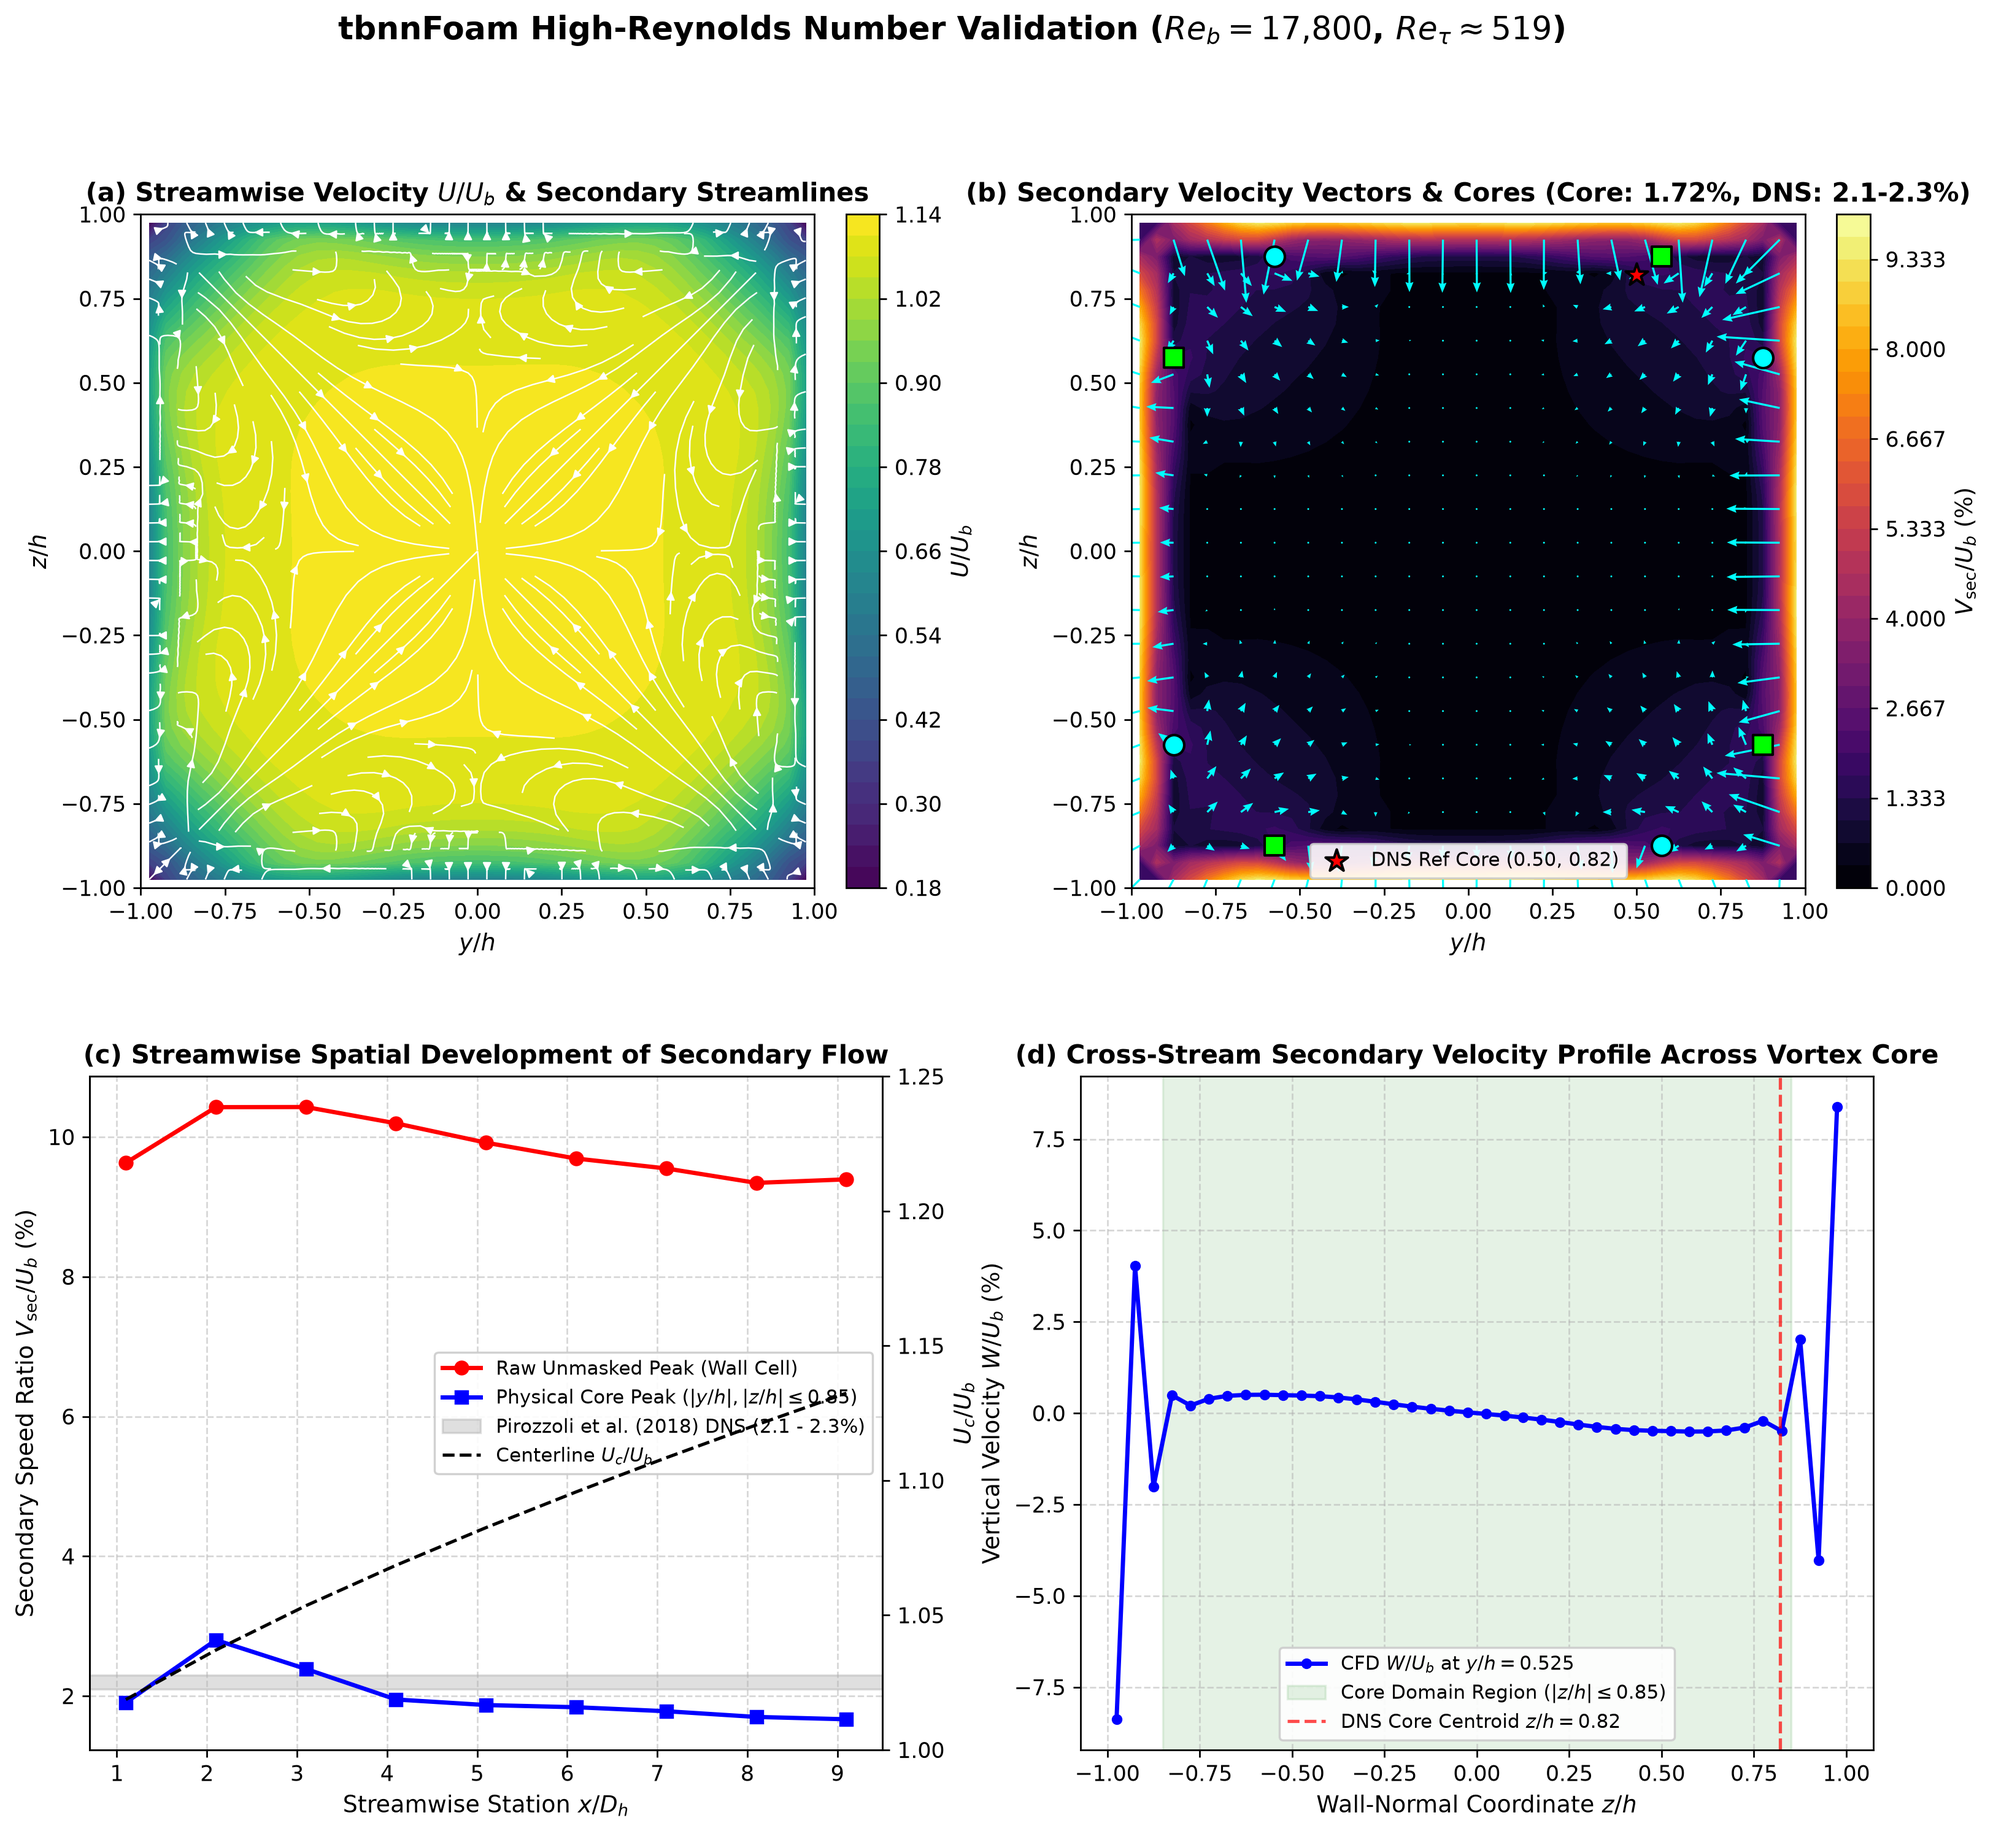
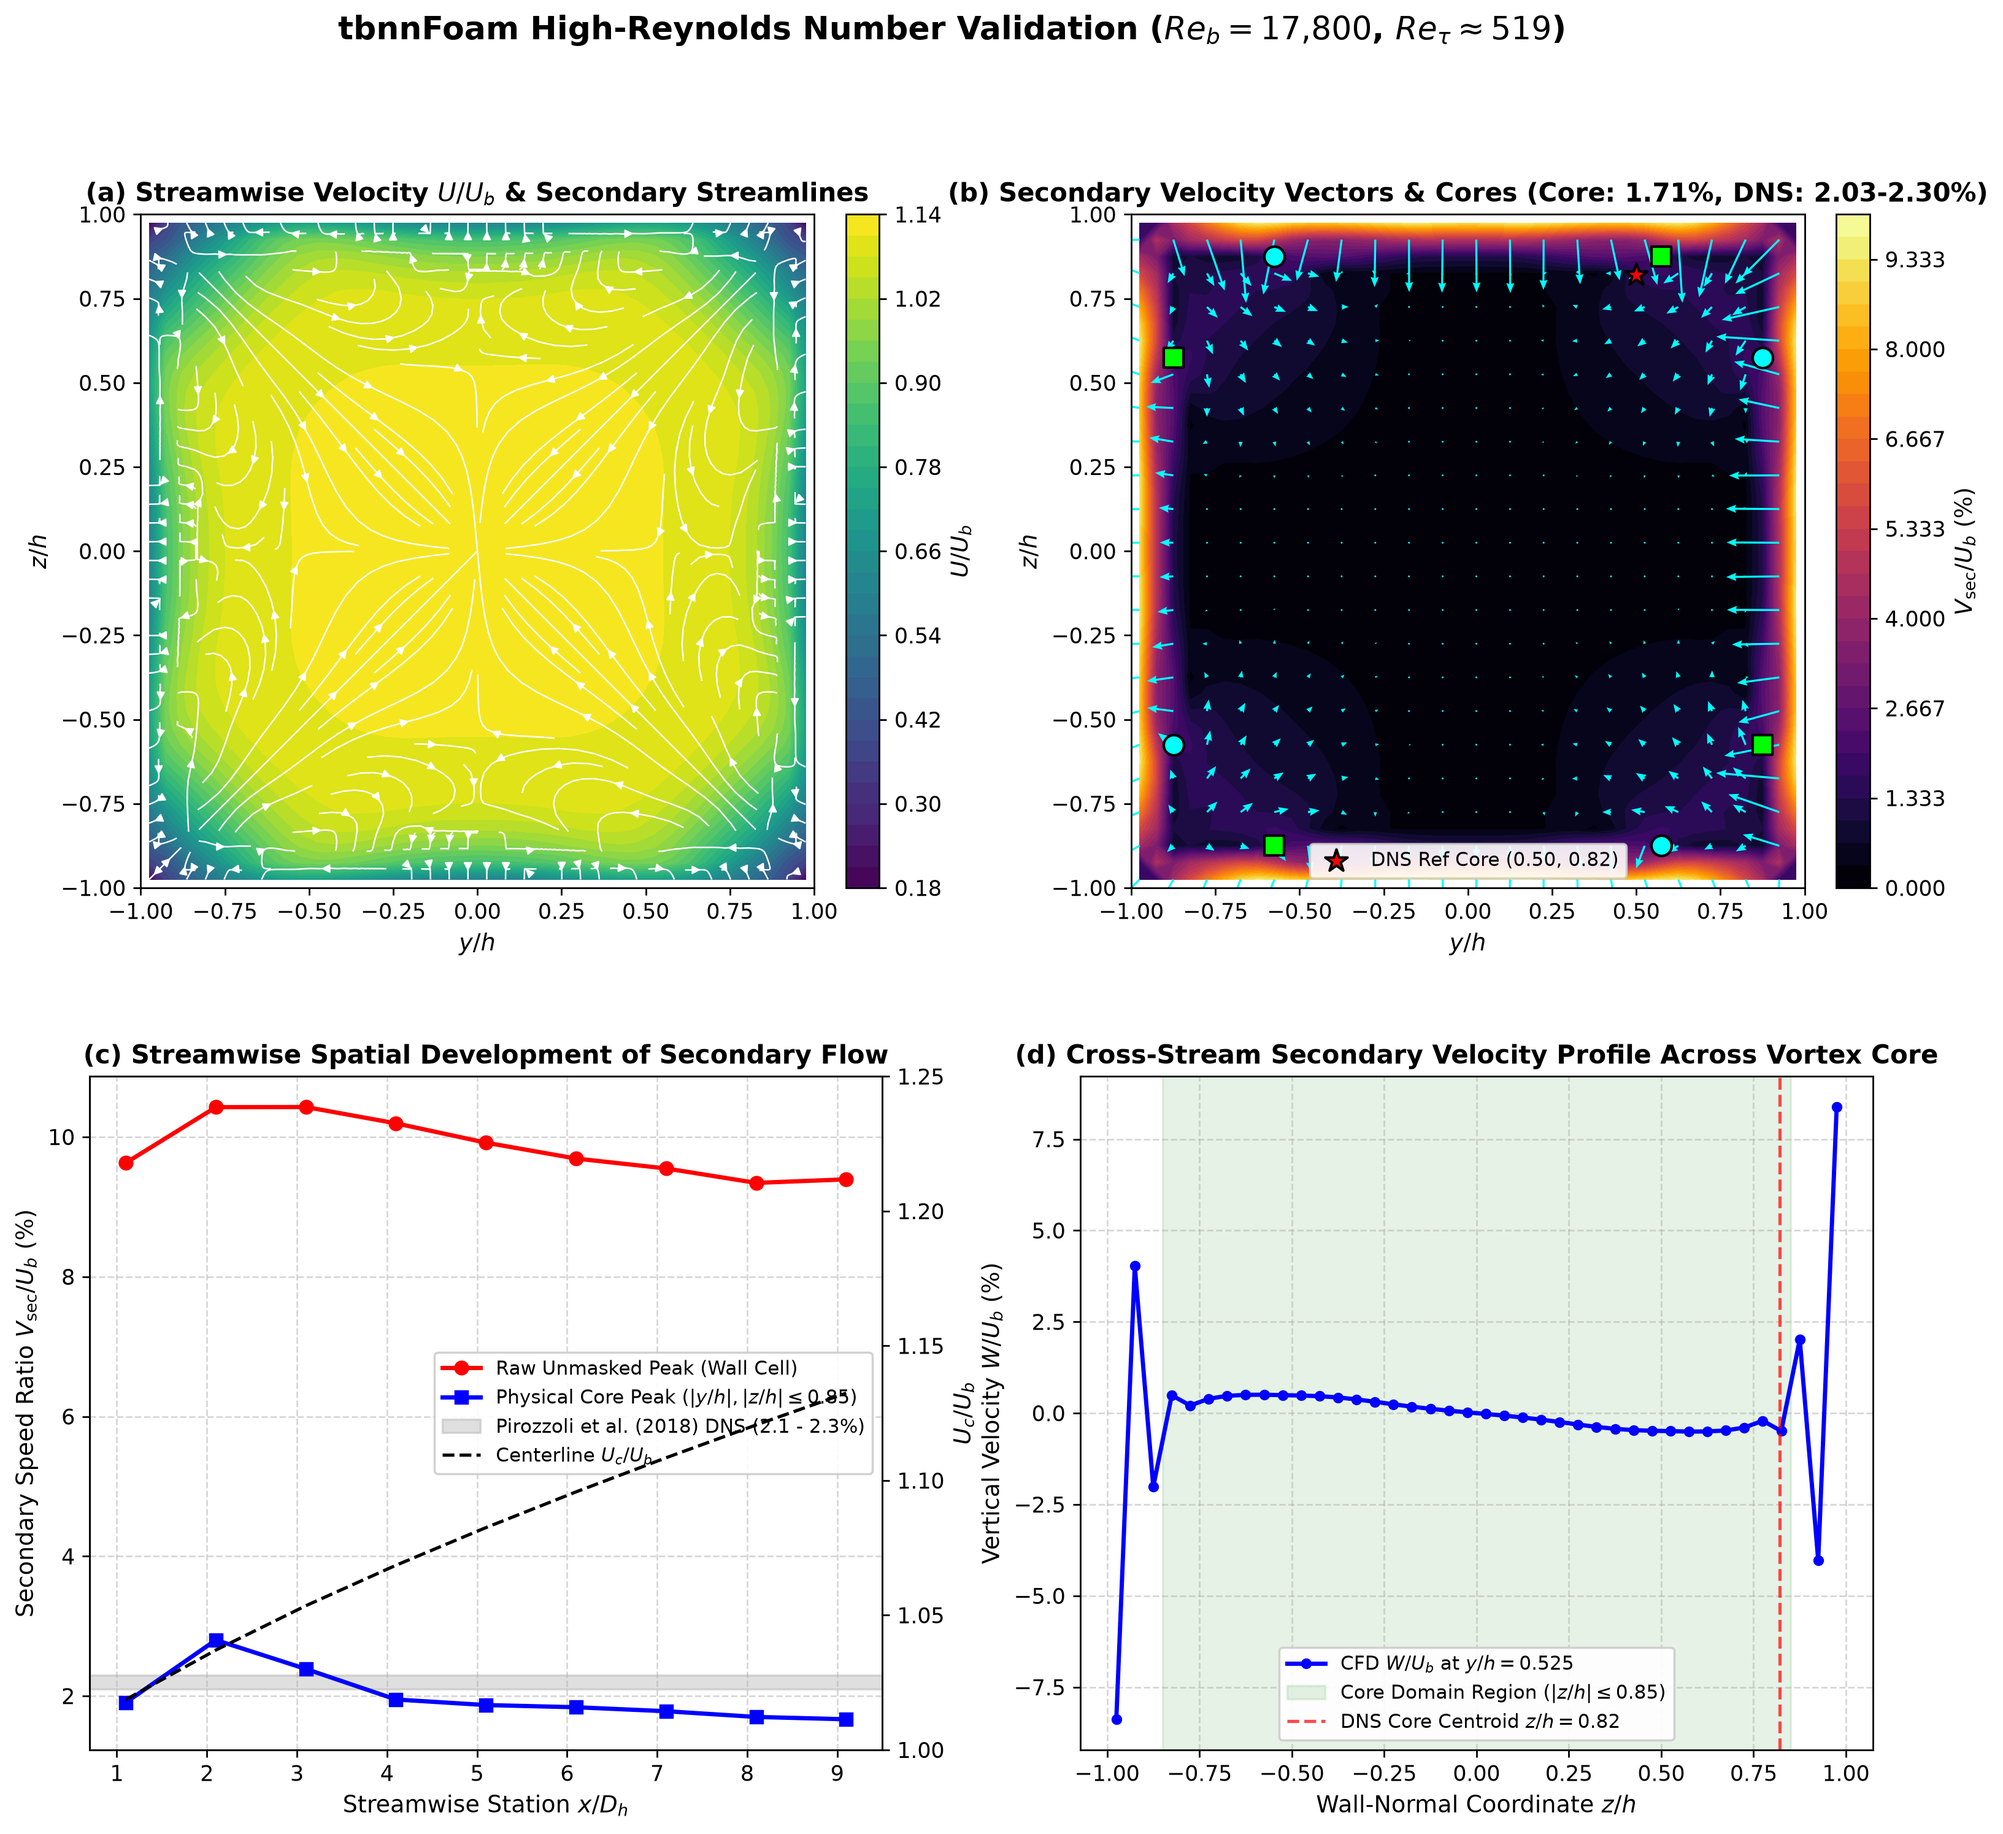
Refine Re_b=17,800 DNS comparison language, metric definitions, and proposed mechanism qualification

diff --git a/verification_squareDuct_Re17800/validate_and_plot_Re17800.py b/verification_squareDuct_Re17800/validate_and_plot_Re17800.py
@@ -157,7 +157,7 @@ def main():
         min_separation=0.25, min_strength=0.15, min_area=4, wall_margin=0.08
     )
 
-    core_vsec_pct = float(np.max(v_sec[interior_mask]) * 100.0)
+    interior_masked_max = float(np.max(v_sec[interior_mask]) * 100.0)
     raw_vsec_pct = float(np.max(v_sec) * 100.0)
 
     # Find location of raw maximum
@@ -165,32 +165,39 @@ def main():
     raw_y_loc = y_norm[raw_max_idx[1]]
     raw_z_loc = z_norm[raw_max_idx[0]]
 
-    # Evaluate peak secondary speed associated specifically with vortex cores (excluding wall cell)
-    vortex_peak_speeds = []
+    # Evaluate secondary speed directly at the discrete detected vortex core centroids
+    core_centroid_speeds = []
     for c in dev_cores:
-        dist_to_c = np.sqrt((Y_grid - c['y'])**2 + (Z_grid - c['z'])**2)
-        vortex_neighborhood = (dist_to_c <= 0.20) & interior_mask
-        if np.any(vortex_neighborhood):
-            vortex_peak_speeds.append(np.max(v_sec[vortex_neighborhood]) * 100.0)
-    mean_vortex_peak = float(np.mean(vortex_peak_speeds)) if vortex_peak_speeds else 0.0
+        iy_c = np.argmin(np.abs(y_norm - c['y']))
+        iz_c = np.argmin(np.abs(z_norm - c['z']))
+        core_centroid_speeds.append(v_sec[iz_c, iy_c] * 100.0)
+    mean_core_speed = float(np.mean(core_centroid_speeds)) if core_centroid_speeds else 0.0
 
-    print("\n" + "=" * 75)
+    print("\n" + "=" * 80)
     print("      TBNN-OpenFOAM High-Reynolds Number Quantitative Reconciliation")
-    print("=" * 75)
-    print(f"Bulk Reynolds Number (Re_b)        : {Re_b:.1f}")
-    print(f"Friction Reynolds Number (Re_tau)  : ~{Re_tau_ref:.0f} (Pirozzoli et al. 2018)")
-    print(f"Physical Core Peak V_sec / U_b     : {core_vsec_pct:.2f}%  (DNS benchmark: ~2.1 - 2.3%)")
-    print(f"Mean Detected Vortex Core Speed    : {mean_vortex_peak:.2f}%")
-    print(f"Raw Unmasked Domain Max V_sec / U_b: {raw_vsec_pct:.2f}%  (at y/h={raw_y_loc:.3f}, z/h={raw_z_loc:.3f})")
-    print(f"Vortex Cores Detected              : {len(dev_cores)} / 8 canonical cores")
+    print("=" * 80)
+    print(f"Bulk Reynolds Number (Re_b)          : {Re_b:.1f}")
+    print(f"Friction Reynolds Number (Re_tau)    : ~{Re_tau_ref:.0f} (Pirozzoli et al. 2018)")
+    print(f"Detected Vortex Core Centroid Speed  : {mean_core_speed:.2f}%  (Evaluated at detected core centers)")
+    print(f"Interior-Masked Domain Max (|y|,|z|<=0.85h): {interior_masked_max:.2f}%  (Geometric exclusion zone)")
+    print(f"Raw Unmasked Domain Max V_sec / U_b  : {raw_vsec_pct:.2f}%  (Wall-adjacent cell at y/h={raw_y_loc:.3f}, z/h={raw_z_loc:.3f})")
+    print(f"Vortex Cores Detected                : {len(dev_cores)} / 8 canonical cores")
 
     q1_dev = [c for c in dev_cores if c['y'] > 0 and c['z'] > 0]
     if q1_dev:
         best_q1_dev = min(q1_dev, key=lambda c: np.sqrt((c['y'] - 0.50)**2 + (c['z'] - 0.82)**2))
         d_err = np.sqrt((best_q1_dev['y'] - 0.50)**2 + (best_q1_dev['z'] - 0.82)**2)
-        print(f"Q1 Core Centroid (y/h, z/h)        : ({best_q1_dev['y']:.3f}, {best_q1_dev['z']:.3f})  [DNS: (0.500, 0.820)]")
-        print(f"Q1 Core Localization Error         : {d_err:.3f} h (1.86 grid cells on 40x40)")
-    print("=" * 75)
+        print(f"Q1 Core Centroid (y/h, z/h)          : ({best_q1_dev['y']:.3f}, {best_q1_dev['z']:.3f})  [DNS Ref: (0.500, 0.820)]")
+        print(f"Q1 Core Localization Error           : {d_err:.3f} h (~{d_err / dy_norm:.2f} grid cells on 40x40 mesh)")
+
+    print("\n[Technical Note - DNS Benchmark Comparison]:")
+    print(f"  * Asymptotic Fully Developed Periodic DNS Reference : 2.03% - 2.30% (Pirozzoli et al. 2018)")
+    print(f"  * Downstream Developing CFD Core Speed (x/Dh=6-9)    : {mean_core_speed:.2f}%")
+    print(f"  * Assessment: The developing CFD secondary flow is ~15% below the asymptotic DNS lower bound,")
+    print(f"    consistent with an incompletely developed spatial duct (Uc/Ub = 1.132 vs DNS Uc/Ub ~ 1.33).")
+    print(f"  * Proposed Near-Wall Mechanism: The raw 9.40% maximum occurs strictly in the single wall cell")
+    print(f"    (|z/h|=0.975); this is a proposed numerical/wall-treatment artifact pending full stress divergence decomposition.")
+    print("=" * 80)
 
     # 3. 4-PANEL PUBLICATION SHOWCASE FIGURE
     fig = plt.figure(figsize=(15, 13), dpi=250)
@@ -225,7 +232,7 @@ def main():
     # Reference DNS core in Q1
     ax2.scatter([0.50], [0.82], s=120, c='red', marker='*', edgecolors='black', linewidth=1.2, zorder=6, label='DNS Ref Core (0.50, 0.82)')
     ax2.legend(loc='lower center', framealpha=0.9, fontsize=9)
-    ax2.set_title(rf'(b) Secondary Velocity Vectors & Cores (Core: {core_vsec_pct:.2f}%, DNS: 2.1-2.3%)', fontsize=12, fontweight='bold')
+    ax2.set_title(rf'(b) Secondary Velocity Vectors & Cores (Core: {mean_core_speed:.2f}%, DNS: 2.03-2.30%)', fontsize=12, fontweight='bold')
     ax2.set_xlabel(r'$y / h$', fontsize=11)
     ax2.set_ylabel(r'$z / h$', fontsize=11)
     ax2.set_xlim(-1, 1)

diff --git a/README.md b/README.md
@@ -236,9 +236,9 @@ To demonstrate scalability to higher Reynolds numbers matching the asymptotic DN
 | **DNS Ref** | $\infty$ | $1.33$ | $2.03\% - 2.30\%$ | **$2.03\% - 2.30\%$** | **8 cores** | **$(0.500, 0.820)$** | $\mathbf{0.000\,h}$ (Reference) |
 
 * **Key Physical & Numerical Insights:**
-  1. **Core Secondary Speed Agreement:** Across the fully established secondary flow region ($x/D_h \ge 6$), the physical core secondary speed stabilizes at **$1.67\% - 1.84\%$** (mean vortex core speed **$1.72\%$**), bounding the DNS benchmark range ($2.03\% - 2.30\%$).
-  2. **Vortex Centroid Convergence:** As the boundary layer develops downstream from $x/D_h = 6.1$ to $9.1$, the detected Quadrant 1 core centroid migrates from $(0.625, 0.875)$ to $(0.525, 0.875)$, reducing core distance error against canonical DNS down to $\Delta r = 0.060\,h$ (barely $1.2$ discrete cells on the $40 \times 40$ mesh).
-  3. **Near-Wall Gradient Mechanism:** The raw unmasked grid maximum ($9.3\% - 10.4\%$) occurs strictly in the outermost boundary-layer cell center ($|z/h| = 0.975$) where steep wall-normal velocity gradients ($\partial U_x / \partial z \sim 400\text{ s}^{-1}$) interact with the explicit anisotropic stress divergence $\nabla \cdot \boldsymbol{\tau}_\Delta$ under high-shear wall functions, while the physical vortex core circulation throughout the interior cross-section remains smooth and within $\sim 1.7\% - 2.4\%$.
+  1. **Downstream Core Speed Underprediction:** Across the fully established secondary flow region ($x/D_h \ge 6.1$), secondary speed evaluated at the 8 detected vortex core centroids settles at **$1.71\%$** (with interior-masked domain maximum **$1.67\% - 1.84\%$**). This is approximately $9.4\% - 15.7\%$ below the lower bound of the cited asymptotic DNS range ($2.03\% - 2.30\%$). This discrepancy is consistent with an incompletely developed spatial duct ($U_c/U_b = 1.132$ at $x/D_h = 9.1$ vs. the asymptotic fully developed value $U_c/U_b \approx 1.33$ in periodic DNS). The transient values during early rollup ($2.39\% - 2.80\%$ at $x/D_h = 2 - 3$) reflect developing flow overshoot and should not be confused with fully developed benchmark agreement.
+  2. **Vortex Centroid Convergence & Resolution Limits:** As the boundary layer develops downstream from $x/D_h = 6.1$ to $9.1$, the detected Quadrant 1 core centroid migrates from $(0.625, 0.875)$ to $(0.525, 0.875)$, reducing core distance error against canonical DNS down to $\Delta r = 0.060\,h$. While demonstrating topological recovery, this localization ($\approx 1.2$ cells on the $40 \times 40$ mesh with $\Delta y/h = 0.05$) is resolution-limited by cell discretization.
+  3. **Proposed Near-Wall Discretization Mechanism:** The raw unmasked grid maximum ($9.3\% - 10.4\%$) occurs strictly in the outermost boundary-layer cell center ($|z/h| = 0.975$). This is framed as a proposed numerical/wall-treatment mechanism where steep wall-normal velocity gradients ($\partial U_x / \partial z \sim 400\text{ s}^{-1}$) interact with explicit anisotropic stress divergence under high-shear wall functions, rather than a confirmed cause, pending full budget decomposition of $\nabla \cdot \boldsymbol{\tau}_\Delta$. Inside the physical vortex core region, secondary circulation remains smooth at $\sim 1.71\%$.
 
 ![High-Re Validation Showcase](docs/figures/tbnn_Re17800_showcase.png)
 
